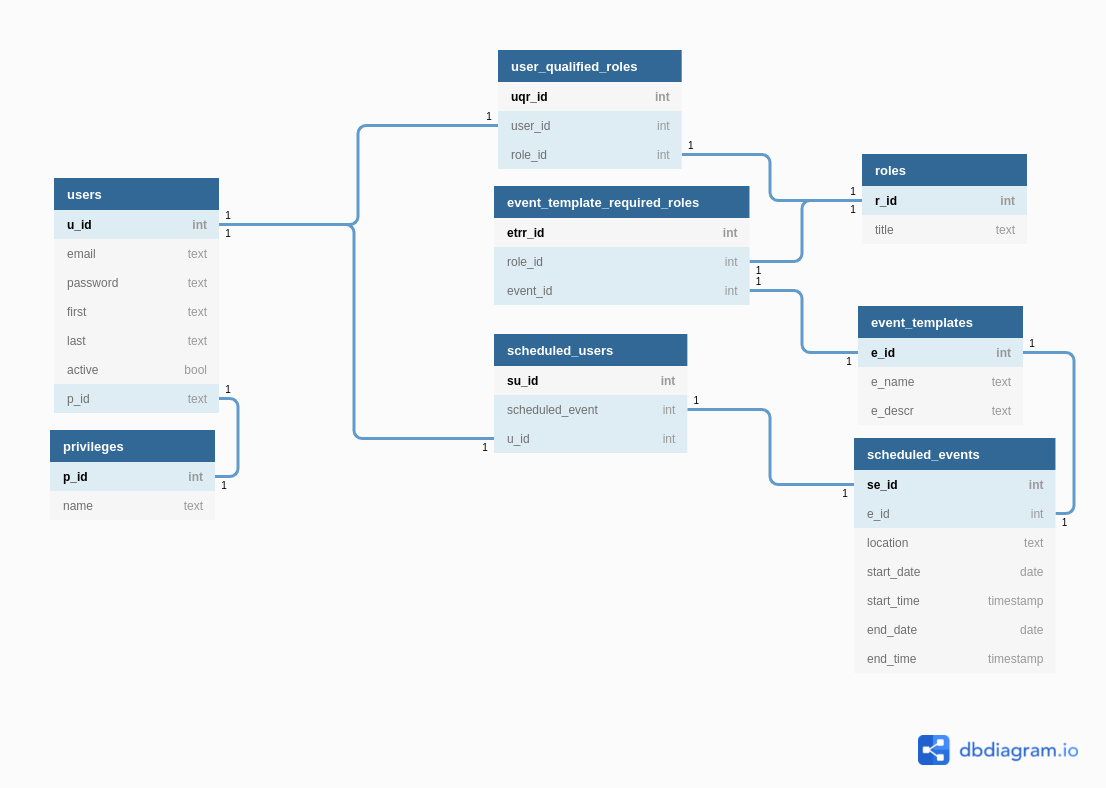
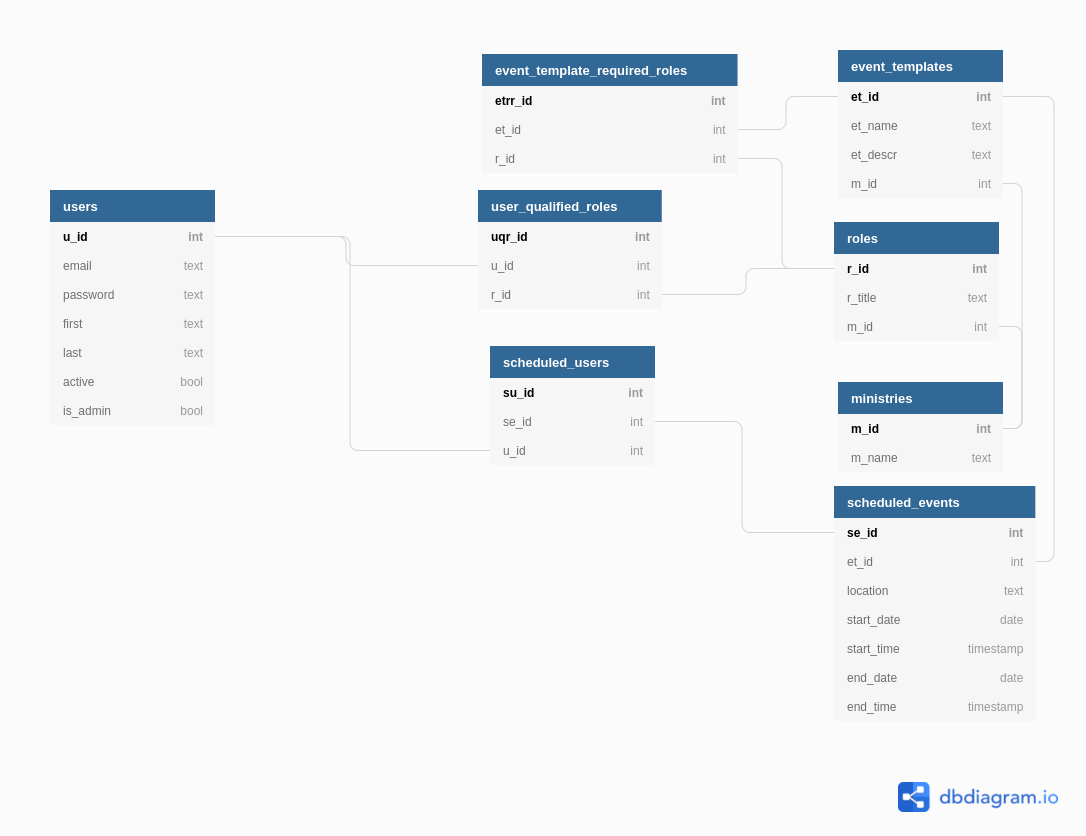
updated schema image and added links to the actual front and back-end repos

Changed region(s): [[0.1823, 0.0609, 0.9724, 0.8528], [0.0304, 0.2437, 0.2431, 0.6701], [0.8204, 0.9137, 0.9724, 0.9746]]

diff --git a/README.md b/README.md
@@ -1,5 +1,10 @@
 # Capstone Two: Step Two - Write a Project Proposal
 
+## the repos.
+
+- https://github.com/jarredbaird/serve.the.front
+- https://github.com/jarredbaird/serve.the.back
+
 ## the schema.
 
 - I will not be sourcing data. It will be user created. I will put some dummy data in there for demo purposes.
